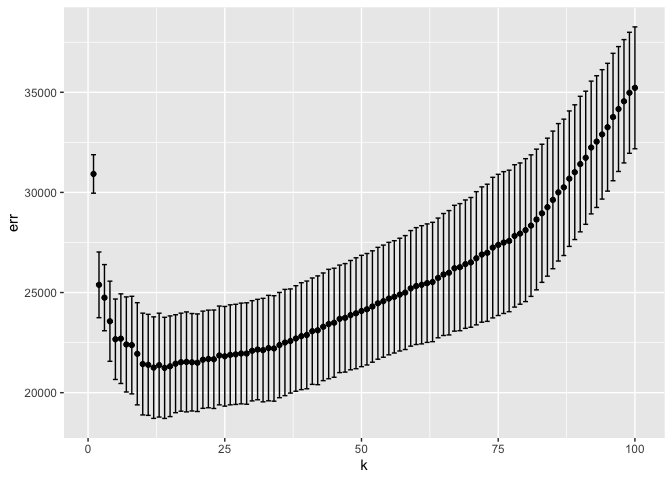
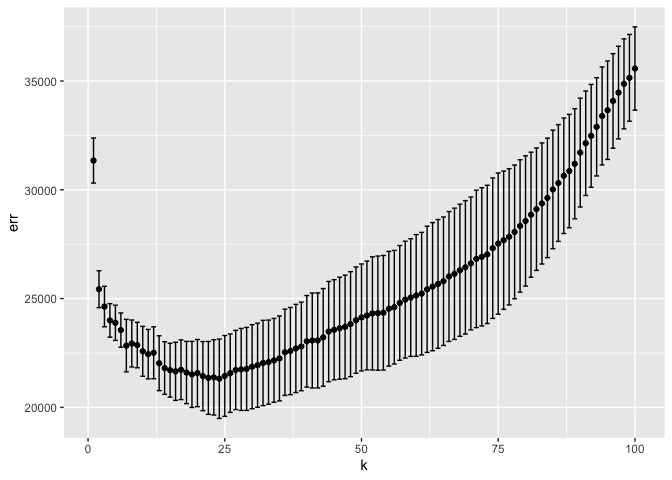
Add files via upload

diff --git a/Assignment-1.md b/Assignment-1.md
@@ -1,4 +1,10 @@
-Author: Jyun\_Yu\_Cheng Li\_Zhao\_Du Yi\_Ji\_Gao
+Author:
+
+Jyun\_Yu\_Cheng
+
+Li\_Zhao\_Du
+
+Yi\_Ji\_Gao
 
 ## question 1
 
@@ -112,9 +118,9 @@ different for male swimmers relative to female swimmers
 
 ###3 run k nearest neighbors RMSEs
 
-    ## [1] 10546.73
+    ## [1] 11057.23
 
-    ## [1] 34219.45
+    ## [1] 32540.74
 
     ##    id trim subTrim condition isOneOwner mileage year  color displacement   fuel
     ## 1 282  350    unsp       CPO          f   21929 2012  Black        3.0 L Diesel
@@ -124,11 +130,11 @@ different for male swimmers relative to female swimmers
     ## 5 289  350    unsp      Used          t   66689 2012  Black        3.0 L Diesel
     ## 6 290  350    unsp       CPO          f   19567 2012  Black        3.0 L Diesel
     ##   state region   soundSystem wheelType wheelSize featureCount price fold_id
-    ## 1    MA    New          unsp      unsp      unsp           82 55994       2
-    ## 2    IL    ENC       Premium     Alloy      unsp           72 60900       1
-    ## 3    VA    SoA          unsp      unsp      unsp            5 54995       3
-    ## 4    NH    New Harman Kardon      unsp      unsp           83 59988       5
-    ## 5    NJ    Mid Harman Kardon     Alloy      unsp           79 37995       4
+    ## 1    MA    New          unsp      unsp      unsp           82 55994       5
+    ## 2    IL    ENC       Premium     Alloy      unsp           72 60900       3
+    ## 3    VA    SoA          unsp      unsp      unsp            5 54995       1
+    ## 4    NH    New Harman Kardon      unsp      unsp           83 59988       1
+    ## 5    NJ    Mid Harman Kardon     Alloy      unsp           79 37995       3
     ## 6    LA    WSC       Premium     Alloy      unsp           76 59977       1
 
     ##     id   trim subTrim condition isOneOwner mileage year  color displacement
@@ -148,28 +154,28 @@ different for male swimmers relative to female swimmers
     ##   fold_id
     ## 1       4
     ## 2       1
-    ## 3       1
+    ## 3       2
     ## 4       4
-    ## 5       5
-    ## 6       1
+    ## 5       4
+    ## 6       3
 
     ## Warning: executing %dopar% sequentially: no parallel backend registered
 
     ##          k      err  std_err
-    ## result.1 1 13497.13 597.9532
-    ## result.2 2 12049.20 431.6555
-    ## result.3 3 11695.67 513.4311
-    ## result.4 4 11101.69 591.8560
-    ## result.5 5 10734.08 542.8315
-    ## result.6 6 10708.09 509.7032
+    ## result.1 1 14488.50 740.9832
+    ## result.2 2 12491.00 703.0110
+    ## result.3 3 11393.74 637.9658
+    ## result.4 4 11258.93 563.1665
+    ## result.5 5 10813.69 610.7410
+    ## result.6 6 10576.47 510.6851
 
     ##          k      err   std_err
-    ## result.1 1 30921.84  960.6531
-    ## result.2 2 25384.47 1639.9462
-    ## result.3 3 24744.13 1652.0545
-    ## result.4 4 23566.93 2000.8048
-    ## result.5 5 22667.87 2008.5383
-    ## result.6 6 22696.68 2237.6985
+    ## result.1 1 31345.69 1035.2938
+    ## result.2 2 25433.27  847.9289
+    ## result.3 3 24634.72  929.5055
+    ## result.4 4 23997.87  769.9808
+    ## result.5 5 23887.78  809.8967
+    ## result.6 6 23553.32  786.9115
 
 ###4 the relationship for RMSE and k，can find optimal k（line or
 point）
@@ -179,11 +185,11 @@ The optimal k for 350 is 15, and the optimal k for 65 AMG is 22
 ###5 model for each k (for each trim) ##6 Which trim have bigger optimal
 k? why?
 
-    ## [1] 9881.405
+    ## [1] 10748.88
 
 ![](Assignment-1_files/figure-markdown_strict/unnamed-chunk-10-1.png)
 
-    ## [1] 30344.76
+    ## [1] 36860.9
 
 ![](Assignment-1_files/figure-markdown_strict/unnamed-chunk-10-2.png)
 
